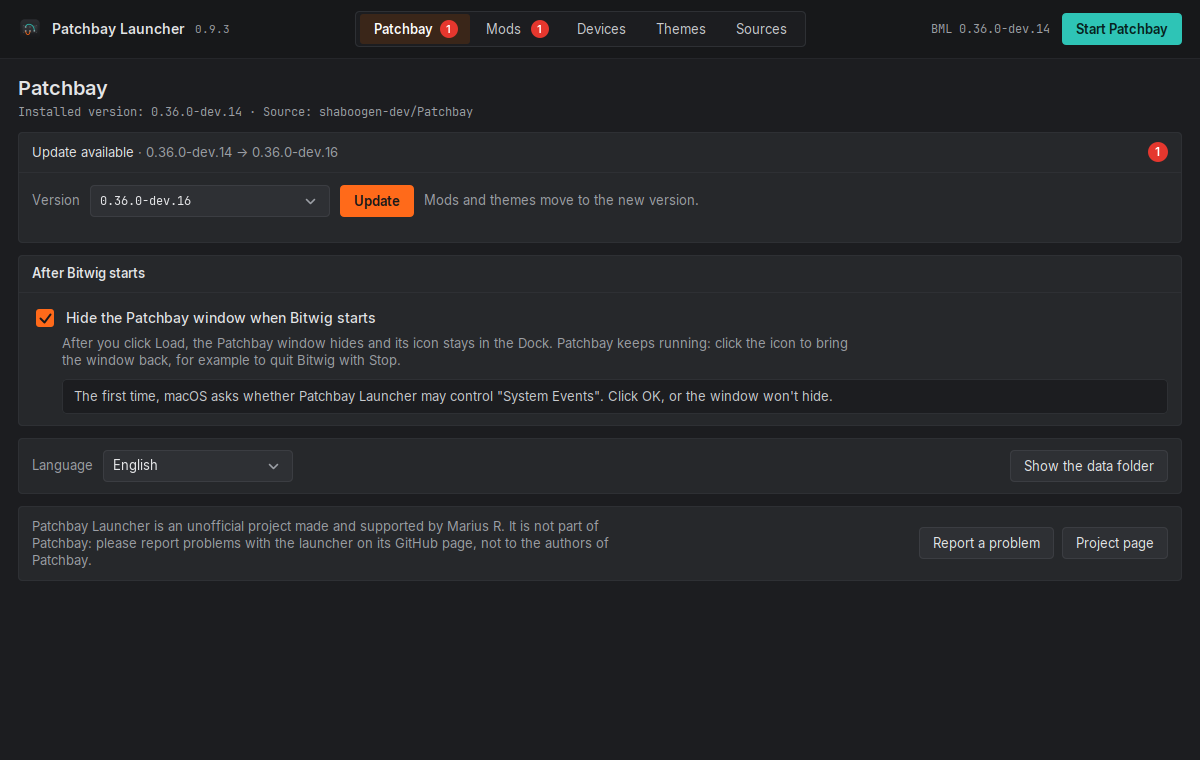
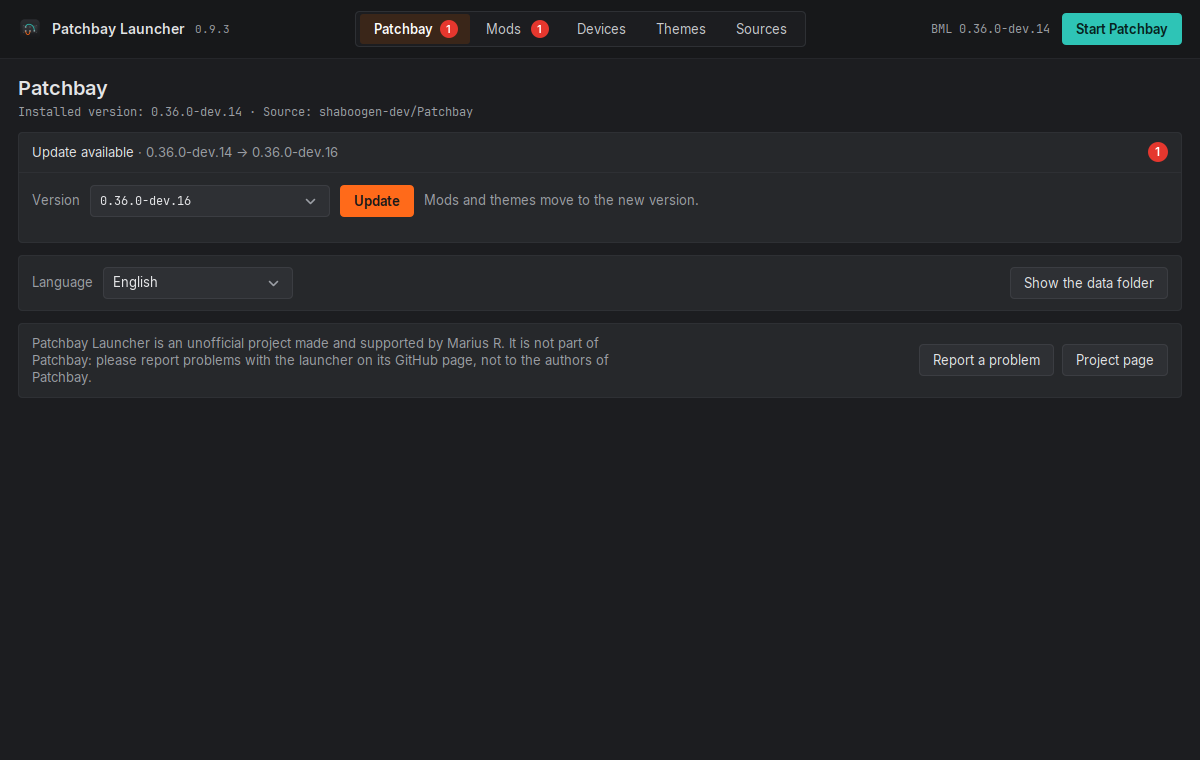
Remove the option to hide the Patchbay window after Load
It did not work on macOS; the Patchbay section is back to versions,
settings and About.

Claude-Session: https://claude.ai/code/session_01NY4XL7uJczLdFhWieRK4LM

diff --git a/src/PatchbayLauncher.java b/src/PatchbayLauncher.java
@@ -550,40 +550,7 @@ public final class PatchbayLauncher {
         col.add(section(latestLabel, patchbayCount, v));
         col.add(Box.createVerticalStrut(12));
 
-        // 2. after Bitwig starts: hide the Patchbay window
-        JPanel h = new JPanel();
-        h.setOpaque(false);
-        h.setLayout(new BoxLayout(h, BoxLayout.Y_AXIS));
-        JCheckBox hide = new JCheckBox(Hider.title(), Hider.enabled());
-        hide.setOpaque(false);
-        hide.setFont(Theme.medium(14f));
-        hide.setForeground(Theme.TEXT);
-        hide.setIconTextGap(12);
-        hide.setFocusPainted(false);
-        hide.setCursor(Cursor.getPredefinedCursor(Cursor.HAND_CURSOR));
-        hide.addActionListener(e -> Hider.setEnabled(hide.isSelected()));
-        hide.setAlignmentX(Component.LEFT_ALIGNMENT);
-        h.add(hide);
-        JLabel how = Theme.wrapped(Hider.explanation(), 620, Theme.MUTED, 13f);
-        how.setBorder(new EmptyBorder(4, 30, 0, 0));
-        how.setAlignmentX(Component.LEFT_ALIGNMENT);
-        h.add(how);
-        String note = Hider.note();
-        if (note != null) {
-            JPanel box = new Theme.Card(new BorderLayout(), Theme.WELL);
-            box.setBorder(new EmptyBorder(9, 12, 9, 12));
-            box.add(Theme.wrapped(note, 600, Theme.SOFT, 13f), BorderLayout.CENTER);
-            JPanel indent = new JPanel(new BorderLayout());
-            indent.setOpaque(false);
-            indent.setBorder(new EmptyBorder(10, 30, 0, 0));
-            indent.add(box, BorderLayout.CENTER);
-            indent.setAlignmentX(Component.LEFT_ALIGNMENT);
-            h.add(indent);
-        }
-        col.add(section(Theme.label(t("Po uruchomieniu Bitwiga", "After Bitwig starts"), Theme.bold(13f), Theme.TEXT), null, h));
-        col.add(Box.createVerticalStrut(12));
-
-        // 3. language and folders, one line
+        // 2. language and folders, one line
         languageBox.addItem(t("Język systemu", "System language"));
         for (String name : new String[] { "Polski", "English", "Deutsch", "Français" }) languageBox.addItem(name);
         languageBox.setSelectedIndex(I18n.CODES.indexOf(I18n.choice()) + 1);
@@ -861,7 +828,6 @@ public final class PatchbayLauncher {
                 return;
             }
             startPatchbay();
-            if (Hider.enabled() && Hider.available()) Hider.startWatcher();
             setBusy(true, t("Uruchamianie Patchbay…", "Starting Patchbay…"));
             javax.swing.Timer quit = new javax.swing.Timer(2500, e -> System.exit(0));
             quit.setRepeats(false);
@@ -873,7 +839,6 @@ public final class PatchbayLauncher {
 
     public static void main(String[] args) throws Exception {
         if (args.length > 0 && args[0].equals("--selftest")) { SelfTest.run(args); return; }
-        if (args.length > 0 && args[0].equals("--hide-watch")) { Hider.watch(); return; }
         if (Platform.MAC) {
             System.setProperty("apple.awt.application.name", "Patchbay Launcher");
             System.setProperty("apple.awt.application.appearance", "NSAppearanceNameDarkAqua");
@@ -973,7 +938,6 @@ public final class PatchbayLauncher {
             if (args.length >= 4) devicesTest(Path.of(args[3]));
             if (args.length >= 4 && Files.isRegularFile(Path.of(args[3], "csabacsaba_bw6themes.tree.json"))) themesTest(Path.of(args[3]));
             sourcesTest();
-            hiderTest();
             System.out.println("SELFTEST_OK");
         }
 
@@ -1077,19 +1041,6 @@ public final class PatchbayLauncher {
             check(Themes.activeId() == null && Files.readString(settings.resolve("enabled-mods.properties")).contains("mod.bte-theme-loader=false"), "themes turned off");
             Themes.remove(Themes.target(components, neon));
             check(!Files.exists(components.resolve("Neon Glow")) && Themes.rank(components, neon) == 2, "theme removed");
-        }
-
-        static void hiderTest() {
-            check(Hider.enabled(), "hiding the Patchbay window is on by default");
-            Hider.setEnabled(false);
-            check(!Hider.enabled(), "and can be switched off");
-            Hider.setEnabled(true);
-            String cmd = String.join(" ", Hider.command(4242));
-            check(Platform.MAC ? cmd.contains("unix id is 4242") && cmd.contains("set visible")
-                : Platform.WINDOWS ? cmd.contains("Get-Process -Id 4242") && cmd.contains("ShowWindowAsync($h, 6)")
-                : cmd.equals("xdotool search --onlyvisible --class ^dev-bitwigre-bml-BmlControlApp$ windowminimize %@"), "hide command: " + cmd);
-            check(Hider.explanation().contains(Platform.MAC ? "Dock" : t("pasek zadań", "taskbar")), "explanation fits this system");
-            check(!Platform.patchbayPids().contains(ProcessHandle.current().pid()), "the launcher never counts itself as Patchbay");
         }
 
         static void sourcesTest() throws Exception {

diff --git a/src/I18n.java b/src/I18n.java
@@ -350,27 +350,13 @@ final class I18n {
         add("Themes found: ", "Gefundene Themes: ", "Thèmes trouvés : ");
         add(".bte theme files", ".bte-Theme-Dateien", "fichiers de thème .bte");
 
-        // New look, hiding the Patchbay window
+        // New look
         add("Update available", "Update verfügbar", "Mise à jour disponible");
         add("Updates available", "Updates verfügbar", "Mises à jour disponibles");
         add("Updates: ", "Updates: ", "Mises à jour : ");
         add("Sections", "Bereiche", "Sections");
         add("Version", "Version", "Version");
-        add("After Bitwig starts", "Nach dem Start von Bitwig", "Après le démarrage de Bitwig");
         add("Mods and themes move to the new version.", "Mods und Themes werden in die neue Version übernommen.", "Les mods et les thèmes passent à la nouvelle version.");
-        add("Hide the Patchbay window when Bitwig starts", "Patchbay-Fenster ausblenden, wenn Bitwig startet", "Masquer la fenêtre Patchbay au démarrage de Bitwig");
-        add("After you click Load, the Patchbay window hides and its icon stays in the Dock. Patchbay keeps running: click the icon to bring the window back, for example to quit Bitwig with Stop.",
-            "Nach einem Klick auf Load wird das Patchbay-Fenster ausgeblendet, sein Symbol bleibt im Dock. Patchbay läuft weiter: Klicke auf das Symbol, um das Fenster zurückzuholen, etwa um Bitwig mit Stop zu beenden.",
-            "Après un clic sur Load, la fenêtre Patchbay se masque et son icône reste dans le Dock. Patchbay continue de tourner : cliquez sur l'icône pour rappeler la fenêtre, par exemple pour quitter Bitwig avec Stop.");
-        add("After you click Load, the Patchbay window minimises to the taskbar. Patchbay keeps running: click it in the taskbar to bring the window back, for example to quit Bitwig with Stop.",
-            "Nach einem Klick auf Load wird das Patchbay-Fenster in die Taskleiste minimiert. Patchbay läuft weiter: Klicke in der Taskleiste darauf, um das Fenster zurückzuholen, etwa um Bitwig mit Stop zu beenden.",
-            "Après un clic sur Load, la fenêtre Patchbay se réduit dans la barre des tâches. Patchbay continue de tourner : cliquez dessus dans la barre des tâches pour rappeler la fenêtre, par exemple pour quitter Bitwig avec Stop.");
-        add("The first time, macOS asks whether Patchbay Launcher may control \"System Events\". Click OK, or the window won't hide.",
-            "Beim ersten Mal fragt macOS, ob Patchbay Launcher „System Events“ steuern darf. Klicke auf OK, sonst wird das Fenster nicht ausgeblendet.",
-            "La première fois, macOS demande si Patchbay Launcher peut contrôler « System Events ». Cliquez sur OK, sinon la fenêtre ne se masquera pas.");
-        add("This needs the xdotool program (for example sudo apt install xdotool); without it the window won't hide.",
-            "Dafür wird das Programm xdotool gebraucht (z. B. sudo apt install xdotool); ohne es wird das Fenster nicht ausgeblendet.",
-            "Il faut pour cela le programme xdotool (par exemple sudo apt install xdotool) ; sans lui, la fenêtre ne se masquera pas.");
     }
 
     /** "<mod> needs <id> [min version]" in the language in use; installedVersion is null when the needed mod is absent. */

diff --git a/src/Platform.java b/src/Platform.java
@@ -189,30 +189,6 @@ final class Platform {
         }
     }
 
-    /** The process IDs of running Patchbay windows (Java running bml-control.jar). */
-    static List<Long> patchbayPids() {
-        List<Long> out = new ArrayList<>();
-        try {
-            if (MAC) {
-                Process p = new ProcessBuilder(Files.isExecutable(Path.of("/usr/bin/pgrep")) ? "/usr/bin/pgrep" : "pgrep", "-f", "bml-control.jar").redirectErrorStream(true).start();
-                for (String line : new String(p.getInputStream().readAllBytes(), StandardCharsets.UTF_8).split("\\s+"))
-                    if (line.matches("\\d+")) out.add(Long.parseLong(line));
-                p.waitFor();
-            } else if (LINUX) {
-                String me = System.getProperty("user.name");
-                ProcessHandle.allProcesses().filter(ph -> me.equals(ph.info().user().orElse(""))
-                    && ph.info().commandLine().orElse("").contains("bml-control.jar")).forEach(ph -> out.add(ph.pid()));
-            } else {
-                String ids = run("powershell.exe", "-NoProfile", "-NonInteractive", "-Command",
-                    "Get-CimInstance Win32_Process -Filter \"Name='javaw.exe' OR Name='java.exe'\" | "
-                        + "Where-Object { $_.CommandLine -like '*bml-control.jar*' } | ForEach-Object { $_.ProcessId }");
-                for (String line : ids.split("\\s+")) if (line.matches("\\d+")) out.add(Long.parseLong(line));
-            }
-        } catch (IOException | InterruptedException | RuntimeException ignored) { }
-        out.remove(ProcessHandle.current().pid());
-        return out;
-    }
-
     // ---------- Bitwig's version ----------
 
     static String bitwigVersion() {

diff --git a/CHANGELOG.md b/CHANGELOG.md
@@ -4,7 +4,6 @@
 
 - **New look:** the sections are tabs in a bar across the top (more room for the lists), Bitwig's orange for what you can do, a teal "Start Patchbay", Inter and JetBrains Mono (bundled, SIL Open Font License), thin frames, status as coloured text with a mark.
 - **Updates as macOS shows them:** a red count on the Patchbay and Mods tabs, and an "Update available" bar; in Mods it lists what changed and a click shows only the mods with updates.
-- **Hide the Patchbay window when Bitwig starts** (Patchbay section, on by default): after Load the Patchbay window hides (macOS, icon stays in the Dock) or minimises to the taskbar (Windows; Linux with `xdotool`). Patchbay keeps running and comes back with a click. macOS asks once whether the launcher may control "System Events".
 - **Linux (beta):** `Patchbay-Launcher-<version>-linux.tar.gz` with a start script that finds Bitwig's Java (`/opt/bitwig-studio/lib/jre`, or the Bitwig chosen in Patchbay), Patchbay's Linux build (`BML-*-linux.zip`), settings in `~/.config/bml`, data in `~/.local/share/PatchbayLauncher`, Bitwig's version from dpkg / rpm / Flatpak, notifications with `notify-send`, and an "Add to the applications menu" entry.
 - Folders and web pages open with `xdg-open` where Java can't open them.
 - **Mods work on your Bitwig?** The launcher checks each mod's `built_against` against the map packs in the installed Patchbay, the way Patchbay does: mods that can't run are marked "incompatible", can't be ticked, sit at the end of the list and say why; mods built for another Bitwig say Patchbay translates them. A **Show** filter: All, Compatible, Installed, Updates, Incompatible. "Install anyway" for a mod that won't run.

diff --git a/README.md b/README.md
@@ -26,7 +26,7 @@ The app is not signed (no Apple Developer ID, no Windows code-signing certificat
 
 ## What it does
 
-- **Patchbay:** lists Patchbay releases, downloads and unpacks the one for your system, carries your mods and themes over to the new version, keeps the previous version, and starts Patchbay. It notifies you when a new version is out. Optionally hides the Patchbay window once Bitwig has started (it keeps running in the Dock or taskbar).
+- **Patchbay:** lists Patchbay releases, downloads and unpacks the one for your system, carries your mods and themes over to the new version, keeps the previous version, and starts Patchbay. It notifies you when a new version is out.
 - **Mods:** a catalogue from the mod repositories with checkboxes, "Select all", "Update all" and details. It checks each mod against your Bitwig the way Patchbay does (with the map packs in the installed Patchbay), shows which mods won't run on your Bitwig and why, and lets you show only the ones that work. Mods are installed the same way as Patchbay's own **Add Mod…**, with a SHA-256 check and their required mods.
 - **Devices:** `.bwdevice`, `.bwmodulator` and `.bwmodule` files, picked for your Bitwig version, checked against GitHub and added to Patchbay's Device Folders.
 - **Themes:** `.bte` colour themes for Patchbay's **Framework: Themes**, with a preview, installed into the active Patchbay's `components/` folder. "Use this theme" picks it in Patchbay's settings (Patchbay must be closed); restart Bitwig from Patchbay to see it.
